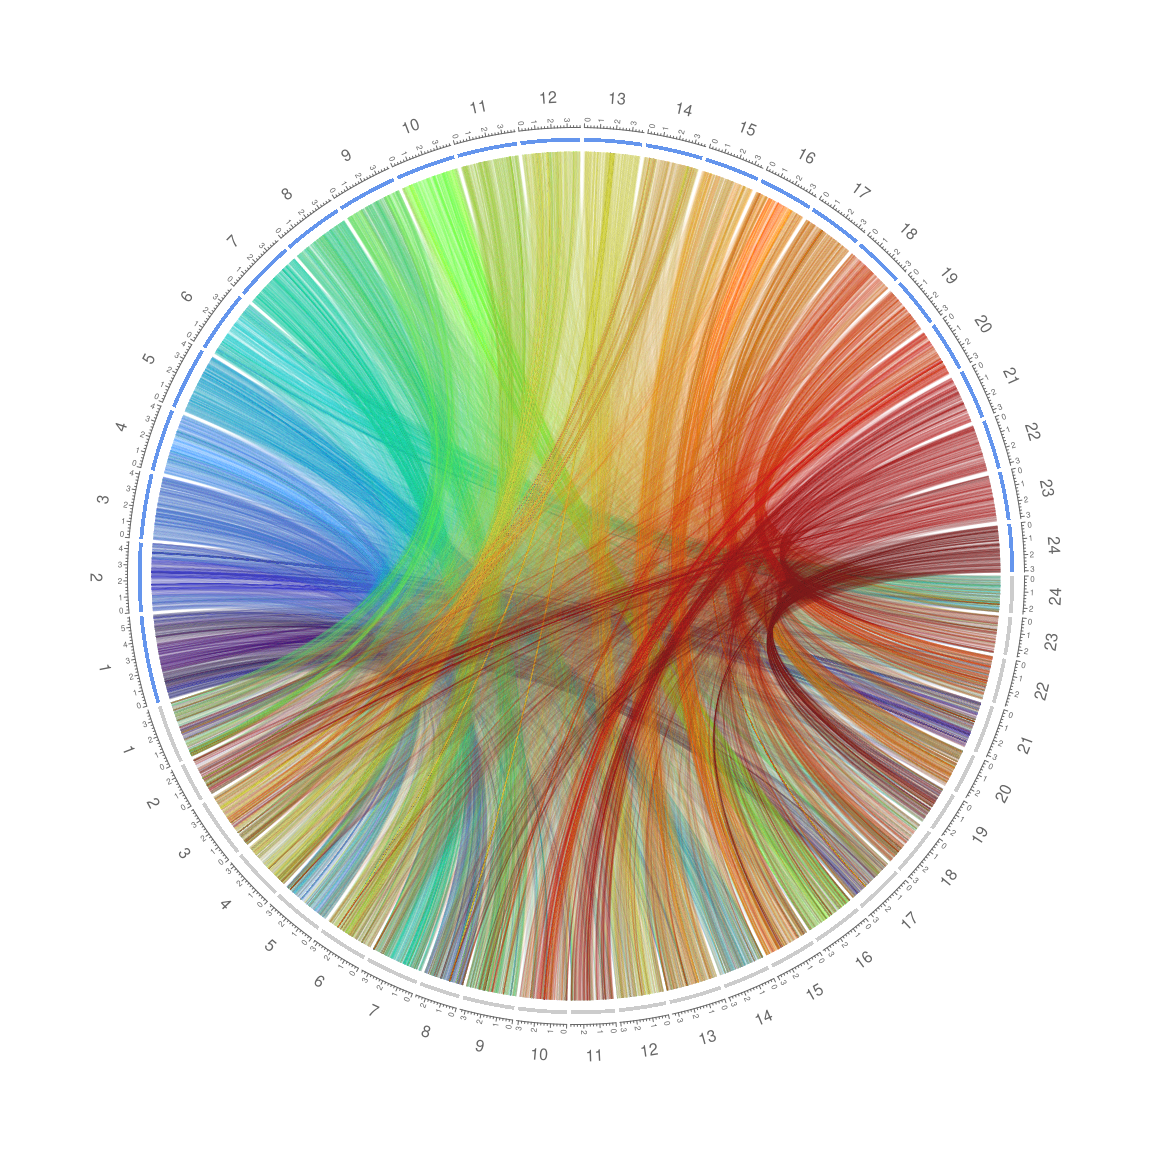
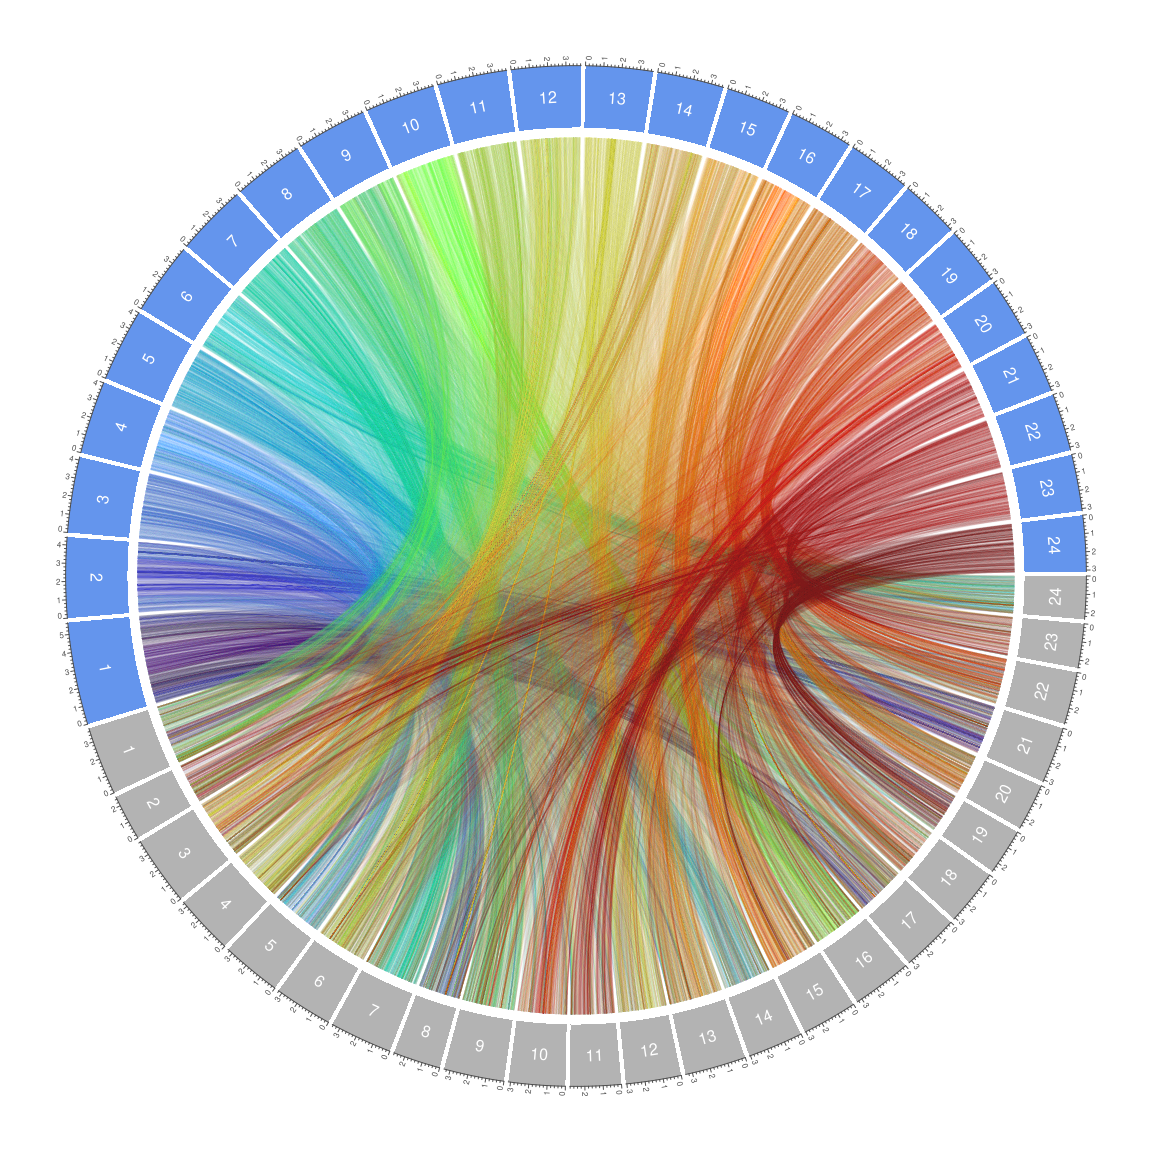
updated synteny plot

diff --git a/markdowns/synteny.md b/markdowns/synteny.md
@@ -97,7 +97,7 @@ medaka <- synteny_tab_filtered %>% filter(length > 200) %>% select(medaka_chr, m
 
 ``` r
 circos.clear()
-col_text <- "grey40"
+col_text <- "white"
 circos.par("track.height"=0.8, gap.degree=0.5, cell.padding=c(0, 0, 0, 0))
 circos.initialize(factors=combined_ref$X1, xlim=matrix(c(rep(0, 48), combined_ref$X3), ncol=2))
 
@@ -108,23 +108,23 @@ xlim=CELL_META$xlim
 ylim=CELL_META$ylim
 circos.text(mean(xlim), mean(ylim), gsub(".*chr", "",chr), cex=1, col=col_text,
 facing="bending.inside", niceFacing=TRUE)
-}, bg.col="white", bg.border=F, track.height=0.12)
+}, bg.col=c(rep("gray70", 24), rep("cornflowerblue", 24)), bg.border=F, track.height=0.12)
 
 
 brk <- c(0, 10, 20, 30, 40, 50, 60)*10^6
 circos.track(track.index = get.current.track.index(), panel.fun=function(x, y) {
-circos.axis(h="bottom", major.at=brk, labels=round(brk/10^7, 1), labels.cex=0.5, 
-col=col_text, labels.col=col_text, lwd=1, labels.facing="clockwise")
+circos.axis(h="top", major.at=brk, labels=round(brk/10^7, 1), labels.cex=0.5, 
+col="grey30", labels.col="grey30", lwd=1, labels.facing="clockwise")
 }, bg.border=F)
 
-circos.track(
-    ylim = c(0,10),
-    cell.padding = c(0, 0, 0, 0),
-    track.height = mm_h(1),
-    bg.lwd= 30,
-    bg.col = c(rep("gray80", 24), rep("cornflowerblue", 24)),
-    bg.border = F
-)
+# circos.track(
+#     ylim = c(0,10),
+#     cell.padding = c(0, 0, 0, 0),
+#     track.height = mm_h(1),
+#     bg.lwd= 30,
+#     bg.col = c(rep("gray80", 24), rep("cornflowerblue", 24)),
+#     bg.border = F
+# )
 
 circos.genomicLink(medaka,shad, col= turbo(n = nrow(medaka), alpha = 0.02))
 ```
